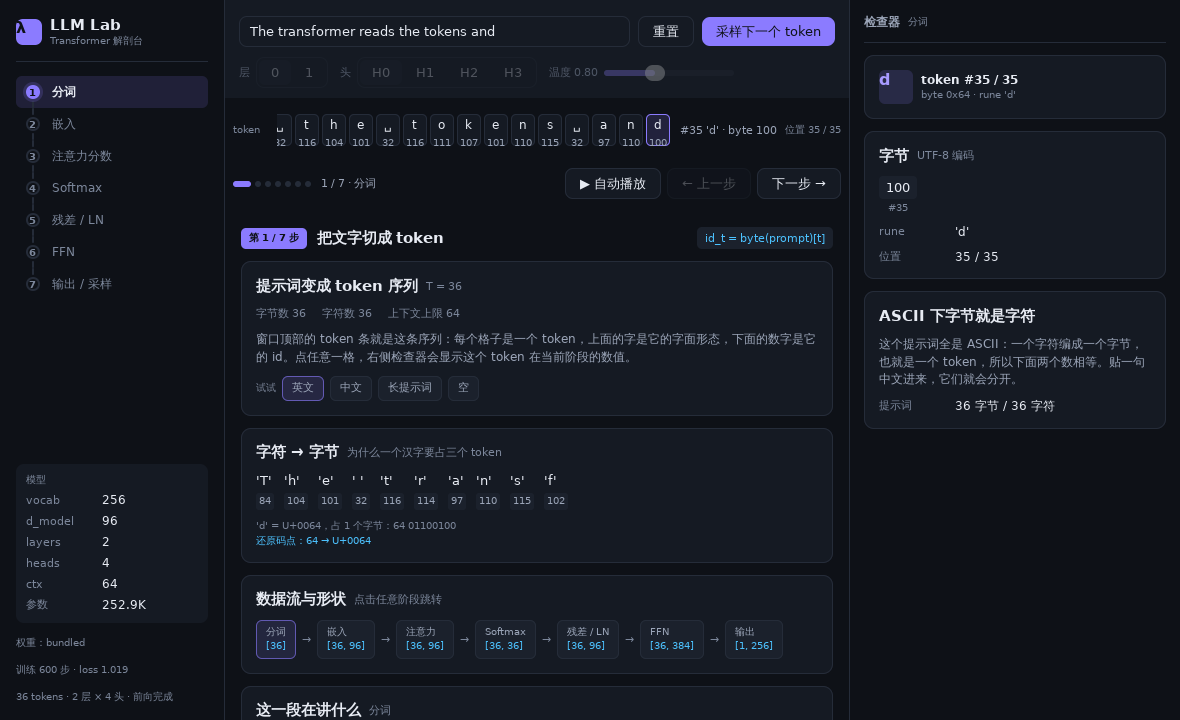
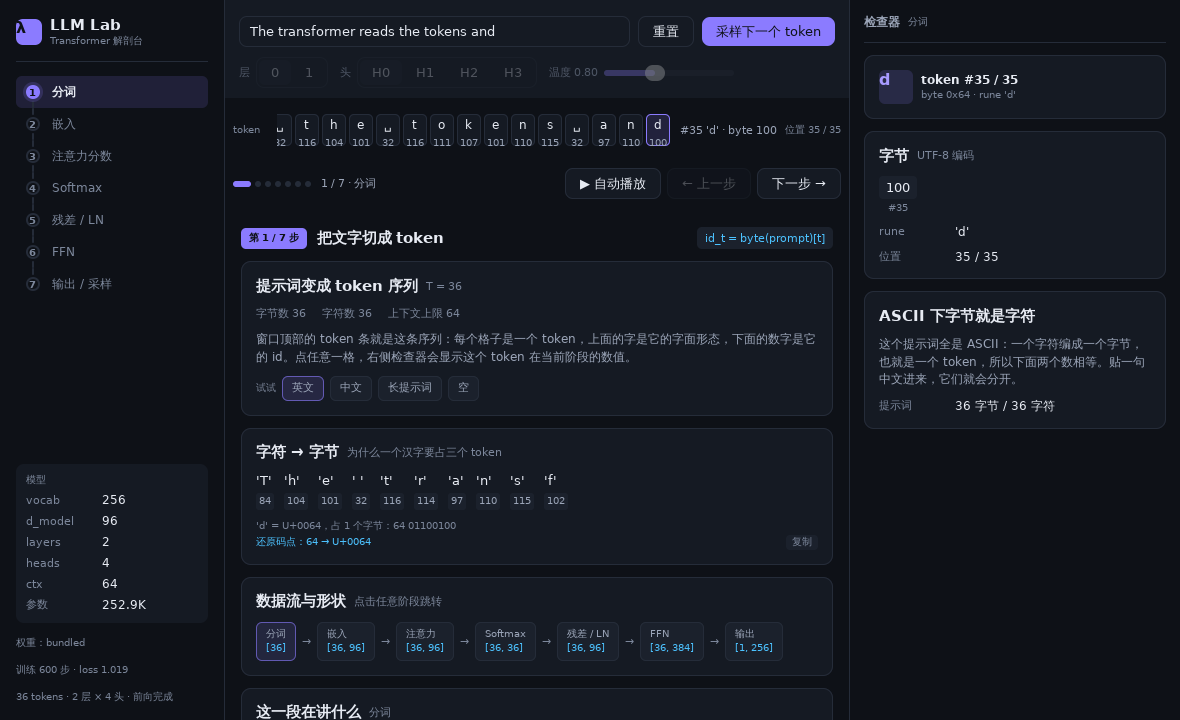
feat(app): let the reader copy a workings block
Every workings block in this app says the same thing about itself: re-add these
numbers by hand and you get the value below. A reader doing that needs the figures
somewhere they can work with, and the app had no way to give them: the text is
painted, there is no Selectable call site or text-selection API anywhere in it, so
the only route from screen to notes was reading a digit string off the display and
retyping it.

- each block's last line gains a small 复制 control that writes the block's lines to
  the clipboard, one per line, unchanged — the point of copying a derivation is to
  get exactly the numbers the screen showed
- the control is a Text with a tooltip rather than a Button, and sits inside the
  block's last row rather than in a row of its own. Both choices are about not
  paying for a convenience with teaching content: at 1180×720 the stage column
  already overflows by 184–870 DIP, so eleven new rows would push real material
  further out of reach; and Buttons are focusable, so eleven of them would add
  eleven Tab stops to a cycle CONTRIBUTING documents as six. Measured cost: 2–4 DIP
  of height per stage
- workingsLines was the single chokepoint for all 11 sites, so the change is one
  helper; the old workingsLines is deleted, which TestNoUnusedFunctionsInApp
  required once it became dead
- TestWorkingsBlocksCanBeCopied checks the clipboard against the rendered text line
  by line, not just that something was copied. Verified it rejects tampering: "the
[…]

diff --git a/internal/app/interaction_test.go b/internal/app/interaction_test.go
@@ -1383,3 +1383,115 @@ func TestScrollKeysReachTheAppFromThePromptField(t *testing.T) {
 			"typed cannot reach the rest of the stage without moving the pointer")
 	}
 }
+
+// TestWorkingsBlocksCanBeCopied covers the one capability the app had none of: the
+// numbers on screen could not be got off the screen.
+//
+// Every workings block exists to be re-added by hand — each says so about itself
+// ("照着手算并得到卡片上那个值") — so a reader doing that needs the figures somewhere
+// they can work with. The text is painted rather than selectable (no Selectable or
+// text-selection API anywhere in this app), so before this the only way to move
+// "0.932751" into a note was to read it off the screen and retype it.
+//
+// The assertion is deliberately against the clipboard *and* the rendered text: the
+// clipboard has to hold exactly the lines the reader can see, or the button copies
+// something other than what it sits under.
+func TestWorkingsBlocksCanBeCopied(t *testing.T) {
+	// The embed stage is the simplest block: two lines, and both are on screen at
+	// the default window.
+	a := newTestApp(t)
+	a.Step = 1
+	tr := ui.NewTester(a.View, 1500, 2200)
+	tr.Frame()
+
+	r, ok := tr.Find("复制算式 2 行")
+	if !ok {
+		t.Fatal("the embed stage's workings block has no copy control")
+	}
+	tr.ClickAt(r.X+r.W/2, r.Y+r.H/2)
+	tr.Frame()
+	got := tr.Clipboard()
+	if got == "" {
+		t.Fatal("clicking 复制 left the clipboard empty")
+	}
+	lines := strings.Split(got, "\n")
+	if len(lines) != 2 {
+		t.Fatalf("the block says 2 行 but the clipboard holds %d line(s): %q", len(lines), got)
+	}
+	// Each copied line must be one the tester renders, so the button cannot copy a
+	// stale or differently-formatted string.
+	for _, line := range lines {
+		if !tr.HasText(line) {
+			t.Fatalf("the clipboard holds a line the screen does not render: %q", line)
+		}
+	}
+	// And the copy is the derivation, not a summary: the second line is the one
+	// that lands on the answer, which is what a reader checks by hand.
+	if !strings.Contains(lines[1], "=") {
+		t.Fatalf("the copied block's last line is not an equation: %q", lines[1])
+	}
+}
+
+// TestCopyControlExistsOnEveryStageWithAWorkingsBlock: eleven blocks across the
+// seven stages, and a reader should find 复制 on each of them rather than on some.
+//
+// This counts the control per stage instead of spot-checking one, because the
+// failure mode is a call site left on the old helper — which renders fine and
+// simply has no way to copy.
+func TestCopyControlExistsOnEveryStageWithAWorkingsBlock(t *testing.T) {
+	// Every stage renders at least one workings block, but not unconditionally: the
+	// score stage's block only exists once a cell is selected, and says so in its
+	// otherwise-visible place ("把指针移到矩阵的某个格子上…"). So the cell is pinned
+	// here — the block and its copy control appear together, which is the property
+	// worth recording.
+	want := map[int]bool{0: true, 1: true, 2: true, 3: true, 4: true, 5: true, 6: true}
+	for step := range lessons {
+		a := newTestApp(t)
+		a.Step = step
+		a.KeyQ, a.KeyK = 20, 5 // pin a cell so the score stage's block is conditional-true
+		// A tall window so every block is laid out: the control is inside the
+		// scroll view and Find reports scrolled coordinates.
+		tr := ui.NewTester(a.View, 1500, 3000)
+		tr.Frame()
+		found := 0
+		for _, s := range tr.Texts() {
+			if strings.HasPrefix(s, "复制算式 ") {
+				found++
+			}
+		}
+		if found > 0 != want[step] {
+			t.Fatalf("stage %d renders %d copy controls; this test records that it should %v",
+				step+1, found, want[step])
+		}
+	}
+}
+
+// TestCopiedWorkingsMatchThePinnedCell ties the copied arithmetic to the cell the
+// reader pinned, which is the case the block exists for: pin a cell, copy its
+// derivation, check it on paper.
+func TestCopiedWorkingsMatchThePinnedCell(t *testing.T) {
+	a := newTestApp(t)
+	a.Step = 2 // score matrix
+	a.SelToken = 20
+	a.KeyQ, a.KeyK = 20, 5
+	tr := ui.NewTester(a.View, 1500, 2600)
+	tr.Frame()
+
+	// Find the copy control whose block belongs to the pinned cell: the score
+	// workings is three lines.
+	r, ok := tr.Find("复制算式 3 行")
+	if !ok {
+		t.Fatal("the pinned cell's workings block has no copy control")
+	}
+	tr.ClickAt(r.X+r.W/2, r.Y+r.H/2)
+	tr.Frame()
+	got := tr.Clipboard()
+	// The cell's own numbers have to be in it, read from the trace rather than
+	// hard-coded, so the check follows the weights and the prompt.
+	h := a.layer().Heads[a.Head]
+	want := fmt.Sprintf("%+.4f", h.Scores[a.KeyQ][a.KeyK])
+	if !strings.Contains(got, want) {
+		t.Fatalf("the copied derivation for the pinned cell does not contain its score %s:\n%s",
+			want, got)
+	}
+}

diff --git a/internal/app/stages.go b/internal/app/stages.go
@@ -300,12 +300,12 @@ func (a *App) stageTokens(c *ui.Context) {
 					// U+FFFD" would describe the display, not the input: the
 					// byte is what the model sees, and the tokenizer accepted it
 					// while the text view had to replace it to stay printable.
-					workingsLines(c, []string{
+					workingsLinesCopyable(c, []string{
 						fmt.Sprintf("0x%02X %08b：不是合法的 UTF-8 字节，单独作为一个 token", rb.Bytes[0], rb.Bytes[0]),
 						fmt.Sprintf("文本视图里显示为 �，但模型看到的 id 就是 %d", rb.Bytes[0]),
 					})
 				} else {
-					workingsLines(c, []string{
+					workingsLinesCopyable(c, []string{
 						fmt.Sprintf("%q = U+%04X，占 %d 个字节：%s",
 							rb.Rune, rb.Codepoint, len(rb.Bytes), strings.Join(parts, "  ")),
 						fmt.Sprintf("还原码点：%s → U+%04X", utf8PayloadChain(rb.Bytes), rb.Codepoint),
@@ -393,7 +393,7 @@ func (a *App) stageEmbed(c *ui.Context) {
 		// both bracketed the two lines share one shape:
 		//   (+0.1247) + (+0.4062) = +0.5309
 		//   (+0.5674) + (-0.6724) = -0.1050
-		workingsLines(c, []string{
+		workingsLinesCopyable(c, []string{
 			fmt.Sprintf("d%d：E[%d][%d] = %+.4f · P[%d] = %+.4f",
 				dim, tr.Tokens[i].ID, dim, e, i, pos),
 			fmt.Sprintf("%s + %s = %+.4f", signed(float64(e)), signed(float64(pos)), x),
@@ -632,7 +632,7 @@ func scoreWorkings(c *ui.Context, q, k, dHead int, p scoreParts) {
 	// it gives 0.932751018 while the printed score is 0.932751060 — a reader
 	// checking the line by hand would find the last digits do not close.
 	scale := float64(float32(1 / math.Sqrt(float64(dHead))))
-	workingsLines(c, []string{
+	workingsLinesCopyable(c, []string{
 		fmt.Sprintf("q%d · k%d 的三项最大贡献：%s", q, k, strings.Join(terms, "  ")),
 		fmt.Sprintf("+ 其余 %d 维 %+.4f = 点积 %.4f", dHead-len(p.Top), p.Rest, p.Dot),
 		fmt.Sprintf("score = 点积 / √%d = %.4f × %.4f = %+.4f", dHead, p.Dot, scale, p.Score),
@@ -921,7 +921,7 @@ func residualWorkings(c *ui.Context, dim int, steps []residualStep, isLast bool,
 		next = "送入最终 LayerNorm"
 	}
 	lines = append(lines, fmt.Sprintf("每一次加法都不覆盖原值，所以层 %d 的输出完整%s", layer, next))
-	workingsLines(c, lines)
+	workingsLinesCopyable(c, lines)
 }
 
 // residualNormMeans returns the mean L2 norm of the residual stream at the block
@@ -958,7 +958,7 @@ func lnWorkings(c *ui.Context, dim int, p lnParts) {
 	if p.mean < 0 {
 		mu = "(" + mu + ")"
 	}
-	workingsLines(c, []string{
+	workingsLinesCopyable(c, []string{
 		// The line travels with its own subject. By the time a reader scrolls a tall card down
 		// to the arithmetic, the card's title is off screen — measured at 1180×720, the
 		// LayerNorm line sits 700 DIP below its heading. The residual chain's first line
@@ -1182,7 +1182,7 @@ func ffnWorkings(c *ui.Context, dim, dff int, p ffnParts) {
 	for _, t := range p.Top {
 		terms = append(terms, fmt.Sprintf("k%d %+.4f", t.K, t.V))
 	}
-	workingsLines(c, []string{
+	workingsLinesCopyable(c, []string{
 		fmt.Sprintf("out[%d] 的三项最大贡献：%s", dim, strings.Join(terms, "  ")),
 		fmt.Sprintf("+ 其余 %d 项 %+.4f ≈ %+.4f", dff-len(p.Top), p.Rest, p.Out),
 	})
@@ -1362,7 +1362,7 @@ func (a *App) stageOutput(c *ui.Context) {
 		// the interval it falls in is exactly as wide as the drawn token's
 		// probability.
 		if d, ok := a.sampleDraw(probs); ok {
-			workingsLines(c, []string{
+			workingsLinesCopyable(c, []string{
 				fmt.Sprintf("种子 = FNV-1a(提示词) = 0x%016X", d.seed),
 				fmt.Sprintf("x = (种子 mod 1000003) ÷ 1000003 = %d ÷ 1000003 = %.6f",
 					d.seed%1000003, d.x),
@@ -1857,7 +1857,7 @@ func (a *App) nextByteSkillSummary(c *ui.Context, tr *model.Trace, skill nextByt
 	// present — the total, the mean and the reference it beats — it just reads as
 	// a sentence rather than a derivation, because the derivation is visible in
 	// the individual positions the inspector shows.
-	workingsLines(c, []string{
+	workingsLinesCopyable(c, []string{
 		fmt.Sprintf("猜对 %d / %d（%.0f%%）· 平均损失 %.3f nats · 均匀猜测 ln(%d) = %.3f → 降低了 %.0f%%",
 			skill.Hits, skill.Scored, pct, skill.MeanLoss,
 			int(math.Round(math.Exp(skill.UniformReference))), skill.UniformReference, saved),

diff --git a/internal/app/theme.go b/internal/app/theme.go
@@ -2,6 +2,8 @@ package app
 
 import (
 	"math"
+	"strconv"
+	"strings"
 
 	"github.com/egoist/mygo/ui"
 )
@@ -170,37 +172,6 @@ const (
 	workingsGapWide = 10
 )
 
-// workingsLines renders a multi-line "how this number was computed" block: the
-// working lines first, and the line that lands on the result last in the accent
-// colour.
-//
-// Six stages grew one of these by hand — the embedding sum, the score's dot
-// product, the softmax weights, LayerNorm, the FFN sum, and sampling — and they
-// had drifted: some showed two lines, some three, and the accent rule (last
-// line is the answer) was only followed by accident. One function keeps them
-// the same shape without changing what any of them says.
-//
-// The block is one child of its card, so the card's own gap applies around it
-// rather than between its lines. That matters for heights: before this helper,
-// the sampling block's three lines were three children and picked up the
-// card's gap; wrapping them without accounting for that shortened the page by
-// 16px and moved the scrollbar.
-func workingsLines(c *ui.Context, lines []string, gap ...float32) {
-	g := float32(workingsGap)
-	if len(gap) > 0 {
-		g = gap[0]
-	}
-	ui.Column(c).Gap(g).Children(func() {
-		for i, line := range lines {
-			colour := colFaint
-			if i == len(lines)-1 {
-				colour = colAccent2
-			}
-			ui.Text(c, line).FontSize(fontMicro).TextColor(colour)
-		}
-	})
-}
-
 // misconception is the callout for a reading that the picture invites but that
 // is wrong. Each one quotes the belief a reader is likely to form from what is
 // on screen, then corrects it with a number this model actually produces, so
@@ -233,5 +204,52 @@ func kvW(c *ui.Context, k, v string, width float32) {
 	ui.Row(c).Gap(6).AlignItems(ui.Center).Children(func() {
 		ui.Text(c, k).FontSize(fontSmall).TextColor(colFaint).Width(width).NoWrap()
 		ui.Text(c, v).FontSize(fontBody).TextColor(colText).Grow(1)
+	})
+}
+
+// workingRow draws one workings block and, on the block's last line, a small
+// "复制" control that puts the whole derivation on the clipboard.
+//
+// Why copy at all: every workings block exists to be re-added by hand — each one
+// says so about itself ("照着手算并得到卡片上那个值"). A reader doing that needs the
+// numbers somewhere they can use, and the app's text is painted rather than
+// selectable, so before this there was no way to get "0.932751" out of it except by
+// reading it off the screen and retyping it.
+//
+// The control shares the last line's row instead of taking a row of its own. That
+// is not cosmetic: every stage's column already overflows the window (measured
+// MaxY 184–870 DIP at 1180×720), so eleven new rows would push real teaching
+// content further out of reach to make room for a convenience.
+//
+// It is a Text with a tooltip rather than a Button because Buttons are focusable,
+//
+//	adding eleven Tab stops to a cycle that CONTRIBUTING documents as six.
+func workingsLinesCopyable(c *ui.Context, lines []string, gap ...float32) {
+	g := float32(workingsGap)
+	if len(gap) > 0 {
+		g = gap[0]
+	}
+	last := len(lines) - 1
+	ui.Column(c).Gap(g).Children(func() {
+		for i, line := range lines {
+			if i != last {
+				ui.Text(c, line).FontSize(fontMicro).TextColor(colFaint)
+				continue
+			}
+			ui.Row(c).Gap(8).AlignItems(ui.Center).Children(func() {
+				ui.Text(c, line).FontSize(fontMicro).TextColor(colAccent2)
+				ui.Spacer(c).Grow(1)
+				copy := ui.Text(c, "复制").FontSize(fontMicro).TextColor(colFaint).
+					Padding(1, 6).Radius(4).Background(colPanel2).
+					Label("复制算式 " + strconv.Itoa(len(lines)) + " 行")
+				if copy.Hovered() {
+					copy = copy.TextColor(colText)
+				}
+				if copy.Clicked() {
+					c.WriteClipboard(strings.Join(lines, "\n"))
+				}
+				copy.Tooltip("把这段算式复制到剪贴板")
+			})
+		}
 	})
 }

diff --git a/internal/app/app.go b/internal/app/app.go
@@ -1170,7 +1170,7 @@ func weightedWorkings(c *ui.Context, q, dim int, p weightedParts) {
 	} else {
 		lines = append(lines, fmt.Sprintf("≈ %+.4f", p.Out))
 	}
-	workingsLines(c, lines)
+	workingsLinesCopyable(c, lines)
 	mutedText(c, "各项按模型的 float32 精度算，这里四舍五入到四位小数，所以自己相加时末位可能差一两个单位。")
 	share := 0.0
 	if p.AbsTotal > 0 {
@@ -1207,7 +1207,7 @@ func (a *App) softmaxWorkings(c *ui.Context, h model.HeadTrace, q, k int) {
 	if rowMax < 0 {
 		sub = fmt.Sprintf("(%+.4f)", rowMax)
 	}
-	workingsLines(c, []string{
+	workingsLinesCopyable(c, []string{
 		fmt.Sprintf("分母 = Σ exp(score − %s) = %.4f", sub, denom),
 		fmt.Sprintf("α = exp(%+.4f − %s) ÷ %.4f = %.4f",
 			h.Scores[q][k], sub, denom, num/denom),

diff --git a/CHANGELOG.md b/CHANGELOG.md
@@ -6,6 +6,12 @@
 
 ### Added
 
+- **算式可以复制了。** 每段 workings 块的末行右侧多一个「复制」：点一下把这几行原样（逐行、保留正负号与括号）写进剪贴板
+  - 补的是这个项目**此前完全没有的一项能力**：界面上的文字是用 `Painter` 画的，全项目 0 处 `Selectable()`、没有文本选中 API，所以想把 `0.932751` 移到笔记里，唯一的方式是用眼睛读出来再手打——而这些算式的**全部意义**就是「照着手算并得到卡片上那个值」（每段自己都这么写）
+  - 控制做成末行里的一个 Text + tooltip，**不占新行、不占 Tab 停点**：中栏在 1180×720 下本来就有 184–870 DIP 溢出，十一行新控件会把教学内容顶得更远；做成 Button 则会往 CONTRIBUTING 记录为「六个」的 Tab 循环里加十一个停点。实测每个阶段只增高 **2–4 DIP**
+  - `workingsLines` 是全部 11 处算式的唯一出口，改成 `workingsLinesCopyable` 一处即可覆盖；旧的 `workingsLines` 随之删除（`TestNoUnusedFunctionsInApp` 抓到它变成死代码）
+  - `TestWorkingsBlocksCanBeCopied` 同时断言剪贴板内容与**渲染出来的文字**逐行一致——只比剪贴板的话，复制一个和屏幕上不同的字符串也会通过。已验证改坏会报 `the clipboard holds a line the screen does not render`
+  - `TestCopyControlExistsOnEveryStageWithAWorkingsBlock` 按阶段数控制出现次数，抓「某个调用点漏改」这类只在视觉上少一个按钮的错误。写这条测试时**它先抓到了我的错误前提**：第 3 步的算式只在选中格子后才出现，无选中时显示的是一句提示
 - **键盘可以滚动中栏了**（`PageUp` / `PageDown` / `Home` / `End`）。中栏装着 lesson 正文和算式块，1180×720 下最多有 **870 DIP 的内容在视口外，比一整屏还多**；mygo 默认只把滚动键交给「指针下方或焦点链里」的滚动容器
   - 实测纯键盘读者（指针停在 0,0）此前**完全够不到**这些内容：`PageDown`、`Down`、`End`、`Space` 和滚轮**全部**让 `Scroll.Y` 停在 0
   - 翻一屏用 **0.9 个视口高**，不是整屏：留一点重叠，读者不会刚好翻过一段的开头。视口高度从滚动元素自己的 `LayoutBounds()` 量（`StageViewportH`）——mygo 的 `ScrollState` 只记 `MaxY` 不记视口，用窗口高度减侧栏/顶栏/步进条去估是错的

diff --git a/README.md b/README.md
@@ -148,7 +148,7 @@ just check    # gofmt 检查 + go vet + go test（CI 的主要门槛；要完全
 
 切换阶段时中栏和检查器会淡入（160ms）。动效只改不透明度、不动位置，因为这个工具的用法就是在一个固定位置比较两个阶段的数据。系统开启「减少动效」时切换是瞬间完成的，没有过渡帧。
 
-第 2 步的嵌入相加、第 3 步的分数点积、第 4 步的注意力权重与加权求和、第 5 步的残差累加与 LayerNorm、第 6 步的 FFN 求和与第 7 步的采样都会把算式写出来（带当前数据的具体数字），读者可以照着手算并得到卡片上那个值。
+第 2 步的嵌入相加、第 3 步的分数点积、第 4 步的注意力权重与加权求和、第 5 步的残差累加与 LayerNorm、第 6 步的 FFN 求和与第 7 步的采样都会把算式写出来（带当前数据的具体数字），读者可以照着手算并得到卡片上那个值。每段算式的末行右侧有个「复制」：点一下就把这几行（逐行、原样，包括正负号与括号）放进剪贴板，拿去草稿纸或计算器里核对。界面上的文字是画出来的、不可选中，所以在此之前这些数字唯一的搬运方式是用眼睛读出来再手打。
 
 第 3–7 步各带「常见误解」卡片，共六条（第 4 步有两条）；第 1 步在含多字节字符的提示词下还会多一条（「一个汉字就是一个 token」的纠正，纯 ASCII 提示词下不出现）：先写出画面上最容易得出的错误读法，再用**当前提示词下这个模型真实算出来的数字**纠正它（分数的平移不变性、列和不受约束、各头贡献不能直接相加、GELU 的负输出下界、概率高不等于正确）。这些数字每次都从 `Trace` 现算，换提示词、换权重都会跟着变。
 
